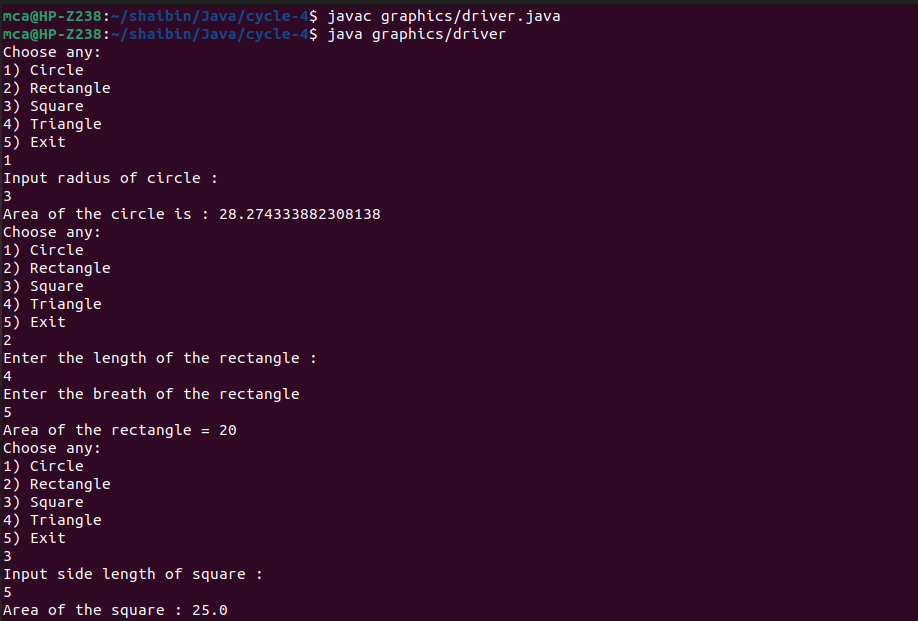
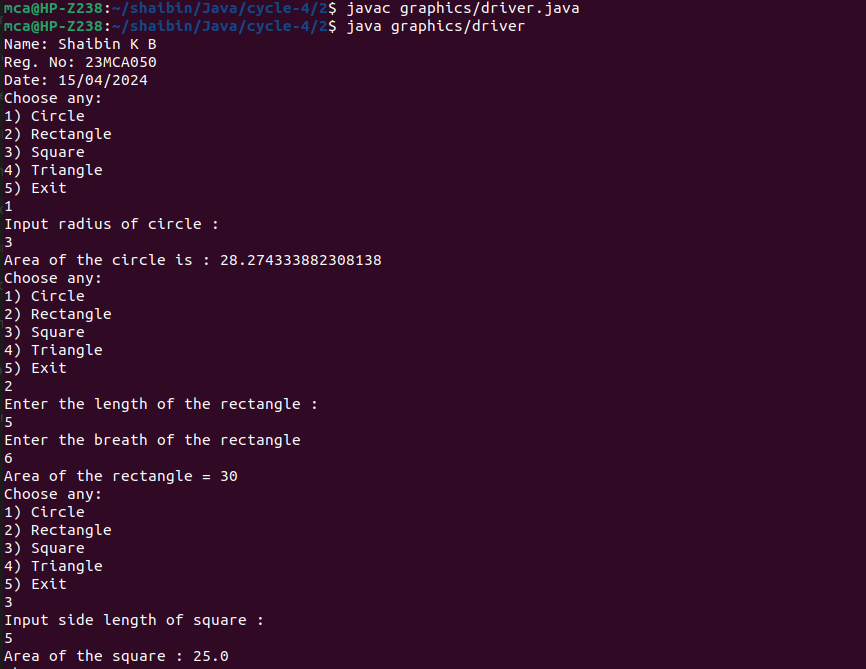
completed

Changed region(s): [[0.0, 0.0, 0.6859, 1.0]]

diff --git a/cycle-4/16/Q16.java b/cycle-4/16/Q16.java
@@ -1,0 +1,37 @@
+import java.util.HashSet;
+import java.util.Scanner;
+import java.util.Set;
+public class Q16 {
+public static void main(String[] args) {
+System.out.println("Name: Shaibin K B");
+        System.out.println("Reg. No: 23MCA050");
+        System.out.println("Date: 15/04/2024");
+
+Set<Integer> set1 = new HashSet<>();
+Set<Integer> set2 = new HashSet<>();
+Scanner scanner = new Scanner(System.in);
+System.out.print("Enter the number of elements in Set 1: ");
+int numElements1 = scanner.nextInt();
+System.out.println("Enter the elements for Set 1:");
+for (int i = 0; i < numElements1; i++) {
+int element = scanner.nextInt();
+set1.add(element);
+}
+System.out.print("Enter the number of elements in Set 2: ");
+int numElements2 = scanner.nextInt();
+System.out.println("Enter the elements for Set 2:");
+for (int i = 0; i < numElements2; i++) {
+int element = scanner.nextInt();
+set2.add(element);
+}
+boolean isEqual = set1.equals(set2);
+System.out.println("Set 1: " + set1);
+System.out.println("Set 2: " + set2);
+if (isEqual) {
+System.out.println("Set 1 and Set 2 are equal.");
+} else {
+System.out.println("Set 1 and Set 2 are not equal.");
+}
+scanner.close();
+}
+}

diff --git a/cycle-4/12/Q12.java b/cycle-4/12/Q12.java
@@ -1,0 +1,34 @@
+import java.util.Stack;
+public class Q12 {
+public static void removeElementAtPosition(Stack<String> stack, int position) {
+if (position >= 1 && position <= stack.size()) {
+Stack<String> tempStack = new Stack<>();
+for (int i = 1; i < position; i++) {
+tempStack.push(stack.pop());
+}
+stack.pop();
+while (!tempStack.isEmpty()) {
+stack.push(tempStack.pop());
+}
+System.out.println("Element at position " + position + " removed successfully.");
+} else {
+System.out.println("Invalid position. Please provide a valid position within the stack range.");
+}
+}
+public static void main(String[] args) {
+Stack<String> stack = new Stack<>();
+stack.push("Element 1");
+stack.push("Element 2");
+stack.push("Element 3");
+stack.push("Element 4");
+stack.push("Element 5");
+int positionToRemove = 3;
+  System.out.println("Name: Shaibin K B");
+        System.out.println("Reg. No: 23MCA050");
+        System.out.println("Date: 15/04/2024");
+System.out.println("Before removal: " + stack);
+removeElementAtPosition(stack, positionToRemove);
+System.out.println("After removal: " + stack);
+}
+}
+

diff --git a/cycle-4/3/Arithme.java b/cycle-4/3/Arithme.java
@@ -1,0 +1,40 @@
+
+import java.util.Scanner;
+class authException extends Exception
+{
+public authException(String s) {
+super(s);
+}
+}
+public class Arithme
+{
+public static void main(String[] args) {
+        System.out.println("Name: Shaibin K B");
+        System.out.println("Reg. No: 23MCA050");
+        System.out.println("Date: 15/04/2024");
+System.out.println();
+String username = "student";
+String passcode = "student123";
+String user_name,password;
+Scanner sc = new Scanner(System.in);
+try
+{
+System.out.println("Enter the username:");
+user_name = sc.nextLine();
+System.out.println("Enter the password:");
+password = sc.nextLine();
+if(username.equals(user_name) && passcode.equals(password))
+{
+System.out.println("Authentication successful...");
+}
+else
+throw new authException("Invalid user credentials");
+}
+catch(authException e)
+{
+System.out.println("Exception caught "+e);
+}
+}
+}
+
+

diff --git a/cycle-4/4/Average.java b/cycle-4/4/Average.java
@@ -1,0 +1,45 @@
+import java.util.Scanner;
+class NegException extends Exception
+{
+public NegException(String s)
+{
+super(s);
+}
+}
+public class Average {
+public static void main(String[] args)
+{
+ System.out.println("Name: Shaibin K B");
+  System.out.println("Reg. No: 23MCA050");
+  System.out.println("Date: 15/04/2024");
+System.out.println();
+int i;
+double sum=0,avg=0;
+Scanner sc=new Scanner(System.in);
+System.out.println("Enter n numbers:");
+int n=sc.nextInt();
+for(i=1;i<=n;i++)
+{
+try
+{
+System.out.println("Enter number"+i);
+int a=sc.nextInt();
+if(a<0)
+{
+i--;
+throw new NegException("Negative numbers not allowed,Try again");
+}
+else
+{
+sum=sum+a;
+}}
+catch(NegException e)
+{
+System.out.println("NEGETIVE EXCEPTION OCCURED:"+e);
+}
+}
+avg=sum/n;
+System.out.println("Average is "+avg);
+sc.close();
+}
+}

diff --git a/cycle-4/11/Remove.java b/cycle-4/11/Remove.java
@@ -1,0 +1,22 @@
+import java.util.*;
+public class Remove {
+public static void main(String[] args){
+ System.out.println("Name: Shaibin K B");
+  System.out.println("Reg. No: 23MCA050");
+  System.out.println("Date: 15/04/2024");
+LinkedList<String> L=new LinkedList<>();
+L.add("JAVA");
+L.add("PYTHON");
+L.add("CSS");
+L.add(0,"PROGRAMING LANGUAGE");
+System.out.println(L);
+L.remove("CSS");
+System.out.println(L);
+L.remove(2);
+System.out.println(L);
+L.removeLast();
+System.out.println(L);
+L.removeFirst();
+System.out.println(L);
+}
+}

diff --git a/cycle-4/2/ArithmeticMain.java b/cycle-4/2/ArithmeticMain.java
@@ -6,6 +6,9 @@ public static void main(String[] args) {
 
 ArithmeticOperations operations = new ArithmeticOperations();
 Scanner scanner = new Scanner(System.in);
+  System.out.println("Name: Shaibin K B");
+  System.out.println("Reg. No: 23MCA050");
+  System.out.println("Date: 15/04/2024");
 System.out.print("Enter the first number: ");
 double num1 = scanner.nextDouble();
 System.out.print("Enter the second number: ");

diff --git a/cycle-4/1/graphics/driver.java b/cycle-4/1/graphics/driver.java
@@ -10,6 +10,9 @@ public class driver {
         rectangle obj2 = new rectangle();
         square obj3 = new square();
         triangle obj4 = new triangle();
+        System.out.println("Name: Shaibin K B");
+        System.out.println("Reg. No: 23MCA050");
+        System.out.println("Date: 15/04/2024");
 
         while (true) {
             System.out.println("Choose any:");
